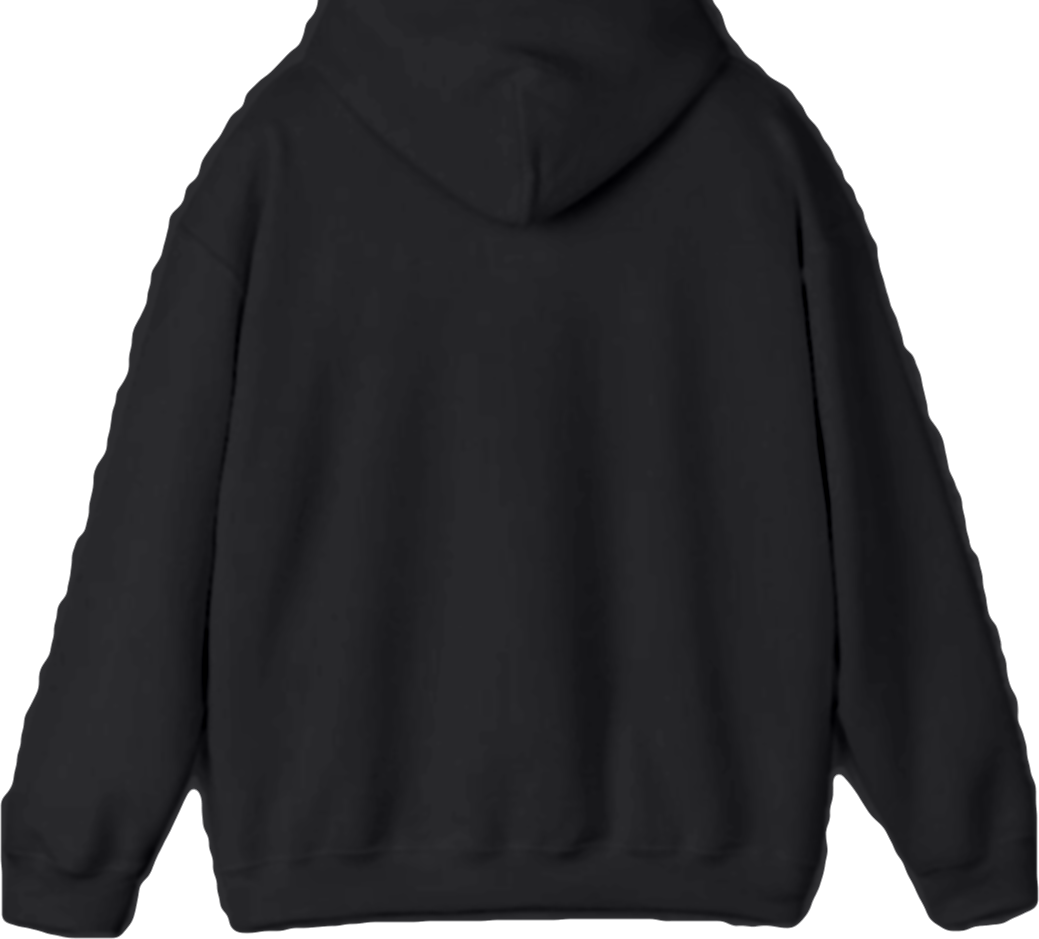
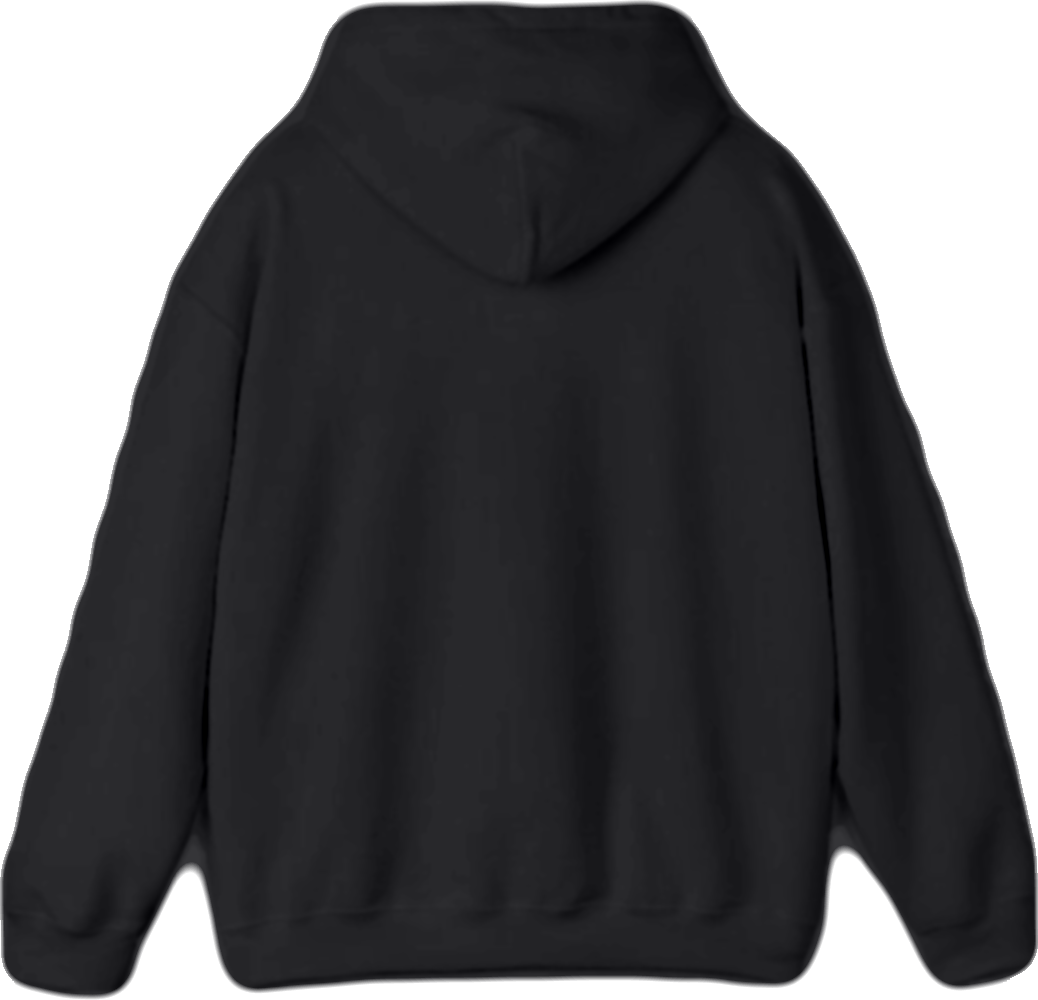
Мокапы: ровные края худи, полупрозрачные стрелки, подпись размера и «Разгуляев · студия брендирования»
Claude-Session: https://claude.ai/code/session_017pNSEnWFe7jyyhhJnUzSSv

diff --git a/whatsapp-bot/mockup.js b/whatsapp-bot/mockup.js
@@ -96,13 +96,13 @@ async function photoBase(S, item, side, hex) {
     }
     file = await S(data, { raw: info }).png().toBuffer();
   }
-  const g = await S(file).resize(920, 960, { fit: 'inside' }).png().toBuffer();
+  const g = await S(file).resize(900, 900, { fit: 'inside' }).png().toBuffer();
   const m = await S(g).metadata();
-  const gx = Math.round((W - m.width) / 2), gy = Math.round(40 + (960 - m.height) / 2);
+  const gx = Math.round((W - m.width) / 2), gy = Math.round(30 + (900 - m.height) / 2);
   const bg = Buffer.from(`<svg xmlns="http://www.w3.org/2000/svg" width="${W}" height="${H}"><defs>
     <radialGradient id="bg" cx="50%" cy="40%" r="75%"><stop offset="0" stop-color="#f7f7f5"/><stop offset="1" stop-color="#dedfdc"/></radialGradient></defs>
     <rect width="${W}" height="${H}" fill="url(#bg)"/><ellipse cx="500" cy="${gy + m.height + 8}" rx="${Math.round(m.width * 0.38)}" ry="14" fill="#00000018"/>
-    <text x="500" y="1092" text-anchor="middle" font-family="Arial, sans-serif" font-size="20" fill="#777">RAZ Brand Studio · примерная визуализация</text></svg>`);
+    <text x="500" y="1092" text-anchor="middle" font-family="Arial, sans-serif" font-size="20" fill="#777">Разгуляев · студия брендирования · примерная визуализация</text></svg>`);
   const base = await S(bg).png().composite([{ input: g, left: gx, top: gy }]).png().toBuffer();
   const px = m.width * p.body / p.chest;
   const cx = gx + m.width * (side === 'chest_left' ? p.left[0] : 0.5);
@@ -168,24 +168,26 @@ function garmentSvg(item, side, hex) {
     <path d="${g.body(s)}" fill="url(#sh)"/><path d="${g.body(s)}" fill="url(#hl)"/>
     ${g.extra(s)}
   </g>
-  <text x="500" y="1092" text-anchor="middle" font-family="Arial, sans-serif" font-size="20" fill="#777">RAZ Brand Studio · примерная визуализация</text>
+  <text x="500" y="1092" text-anchor="middle" font-family="Arial, sans-serif" font-size="20" fill="#777">Разгуляев · студия брендирования · примерная визуализация</text>
 </svg>`;
 }
 
 /* ---------- размерные стрелки над принтом и справа от него ---------- */
-function sizeArrows(x, y, w, h, wcm, hcm, dark) {
-  const c = dark ? '#ffffff' : '#1d1d1f', pill = dark ? '#000000a0' : '#ffffffc0';
+function sizeArrows(x, y, w, h, wcm, hcm, dark, emb, capY) {
+  // Стрелки полупрозрачные, чтобы не спорили с принтом; размер ещё раз крупно подписан рядом с изделием
+  const c = dark ? '#ffffff' : '#1d1d1f', pill = dark ? '#00000055' : '#ffffff66';
   const cm = v => (v >= 10 ? Math.round(v) : Math.round(v * 2) / 2).toString().replace('.', ',') + ' см';
   const gy = Math.max(30, y - 22), gx = Math.min(W - 30, x + w + 22);
   const head = (x1, y1, dx, dy) => `<path d="M${x1} ${y1} l${-dx * 10 - dy * 6} ${-dy * 10 + dx * 6} M${x1} ${y1} l${-dx * 10 + dy * 6} ${-dy * 10 - dx * 6}" />`;
-  const label = (tx, ty, t, lw = 68) => `<rect x="${tx - lw / 2}" y="${ty - 15}" width="${lw}" height="24" rx="12" fill="${pill}"/><text x="${tx}" y="${ty + 3}" text-anchor="middle" font-family="Arial, sans-serif" font-weight="700" font-size="16" fill="${c}">${t}</text>`;
+  const label = (tx, ty, t, lw = 68) => `<rect x="${tx - lw / 2}" y="${ty - 15}" width="${lw}" height="24" rx="12" fill="${pill}"/><text x="${tx}" y="${ty + 3}" text-anchor="middle" font-family="Arial, sans-serif" font-weight="700" font-size="15" fill="${c}" fill-opacity=".6">${t}</text>`;
   const low = h < 40; // низкая надпись: высоту пишем в верхней подписи, без вертикальной стрелки
   return Buffer.from(`<svg xmlns="http://www.w3.org/2000/svg" width="${W}" height="${H}">
-  <g stroke="${c}" stroke-width="2.5" fill="none" stroke-linecap="round">
+  <g stroke="${c}" stroke-opacity=".45" stroke-width="2" fill="none" stroke-linecap="round">
     <path d="M${x} ${gy - 7} v14 M${x + w} ${gy - 7} v14 M${x} ${gy} H${x + w}"/>${head(x, gy, -1, 0)}${head(x + w, gy, 1, 0)}
     ${low ? '' : `<path d="M${gx - 7} ${y} h14 M${gx - 7} ${y + h} h14 M${gx} ${y} V${y + h}"/>${head(gx, y, 0, -1)}${head(gx, y + h, 0, 1)}`}
   </g>
   ${low ? label(x + w / 2, gy - 20, cm(wcm).replace(' см', '') + ' × ' + cm(hcm), 120) : label(x + w / 2, gy - 20, cm(wcm)) + label(Math.min(W - 40, gx + 40), y + h / 2, cm(hcm))}
+  <text x="500" y="${capY}" text-anchor="middle" font-family="Arial, sans-serif" font-weight="700" font-size="26" fill="#3a3a3c">Размер ${emb ? 'вышивки' : 'принта'} ≈ ${cm(wcm).replace(' см', '')} × ${cm(hcm)}</text>
 </svg>`);
 }
 
@@ -272,7 +274,7 @@ export async function makeMockup(opts) {
     layers.push({ input: shadeBuf, raw: { width: meta.width, height: meta.height, channels: 4 }, left, top, blend: 'soft-light' });
   }
   // Правило Евгения: на мокапе стрелками показываем примерный размер принта или вышивки в см
-  layers.push({ input: sizeArrows(left, top, meta.width, meta.height, meta.width / px, meta.height / px, isDark(hex)), left: 0, top: 0 });
+  layers.push({ input: sizeArrows(left, top, meta.width, meta.height, meta.width / px, meta.height / px, isDark(hex), emb, photo ? 1040 : 44), left: 0, top: 0 });
   return S(base).composite(layers).jpeg({ quality: 88 }).toBuffer();
 }
 
